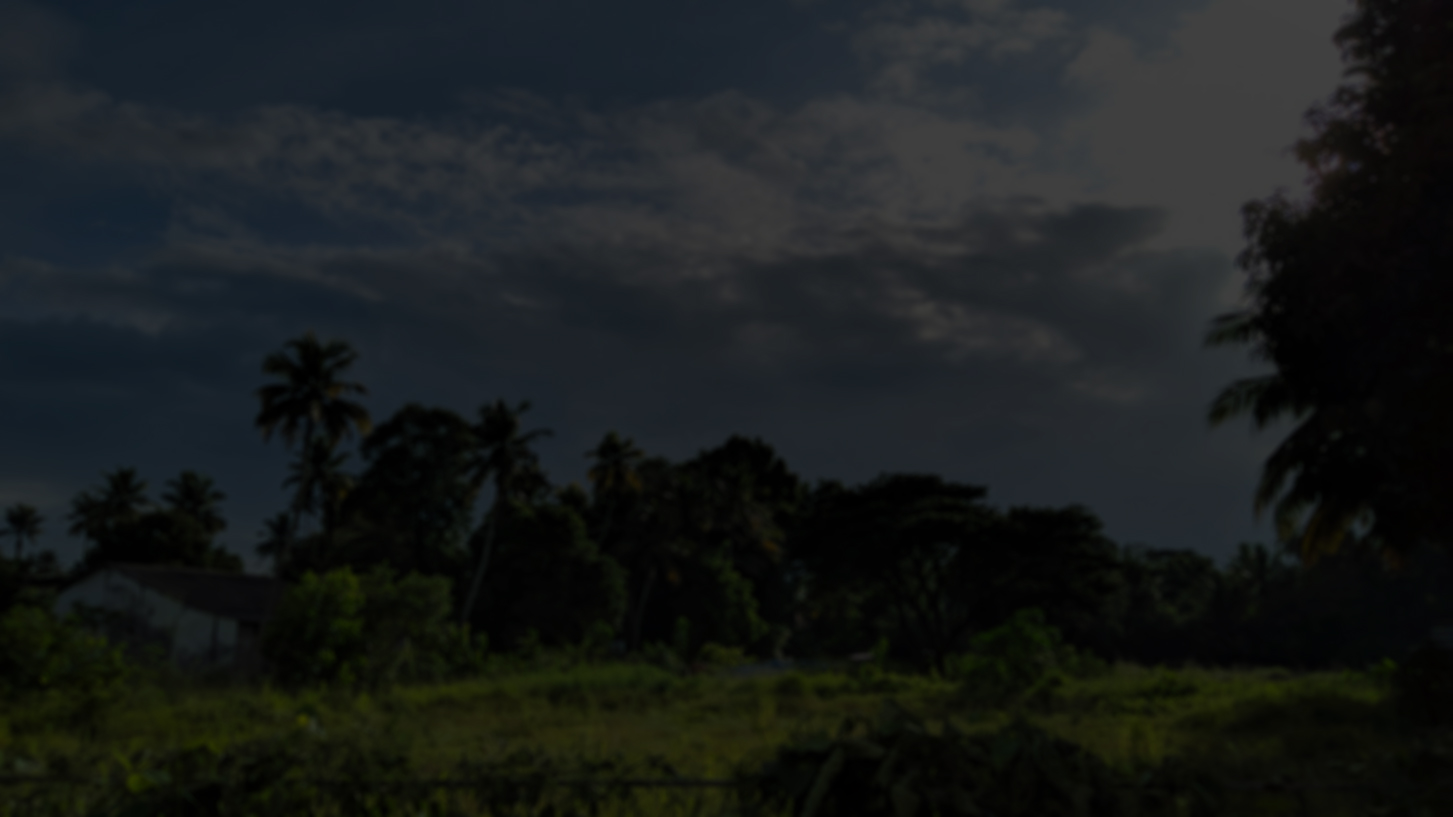
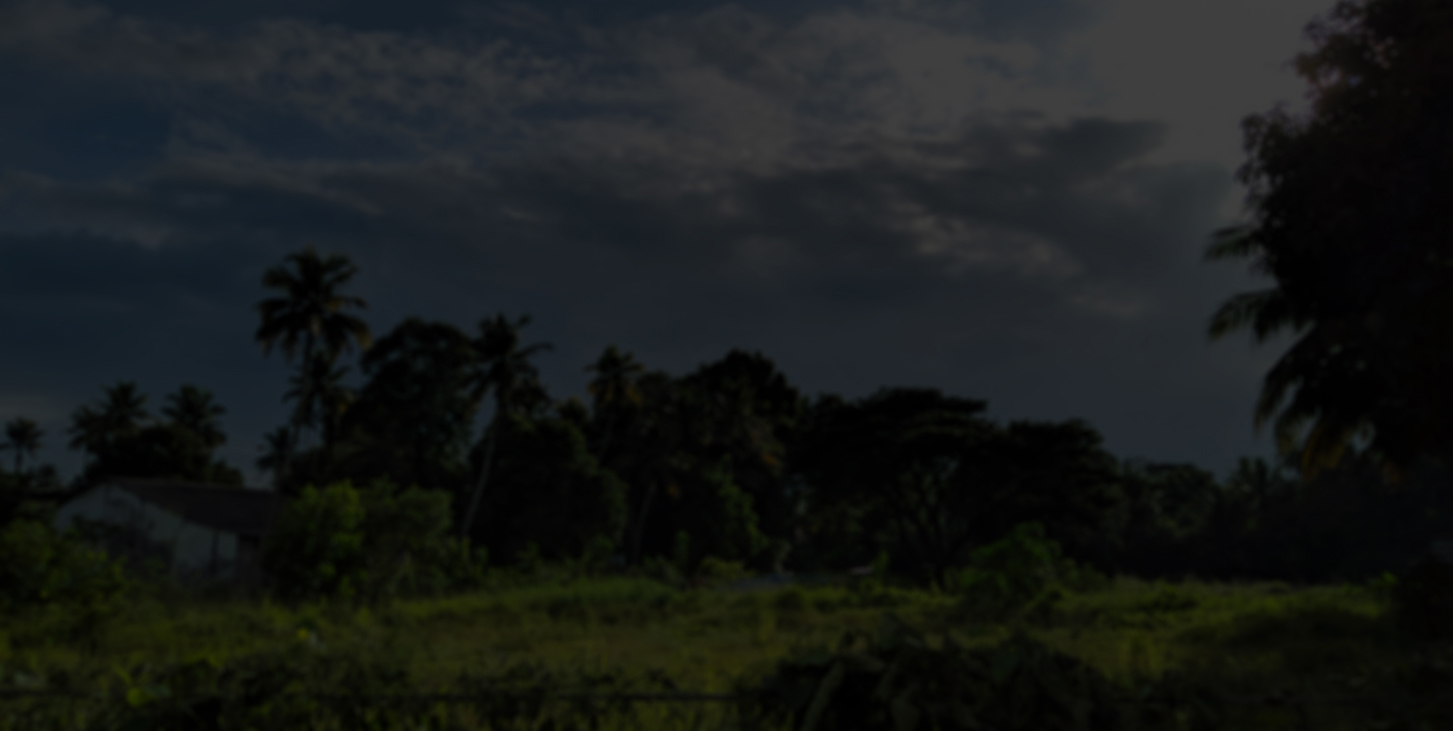
flutter set

diff --git a/index.html b/index.html
@@ -8,46 +8,94 @@
 
 <body>
 
-    <div class="appbar">
-        <h1 class="title">PORTFOLIO</h1>
-        <a class="socialmedia" href="https://github.com/tomthomasvempala"><img src="media/github.png"> </a>
-        <a class="socialmedia" href="https://instagram.com/tomthomasvempala"><img src="media/insta.png"> </a>
-        <a class="socialmedia" href="https://www.linkedin.com/in/tom-vempala-6175ab175/"><img src="media/linkedin.png"> </a>
-    </div>
-    <div class="myBody">
-        <div class="leftside">
-            <div class="propic">
+    <div class="topPart">
+        <div class="appbar">
+            <h1 class="title">PORTFOLIO</h1>
+            <a class="socialmedia" href="https://github.com/tomthomasvempala"><img src="media/icons/github.png"> </a>
+            <a class="socialmedia" href="https://instagram.com/tomthomasvempala"><img src="media/icons/insta.png"> </a>
+            <a class="socialmedia" href="https://www.linkedin.com/in/tom-vempala-6175ab175/"><img src="media/icons/linkedin.png"> </a>
+        </div>
+        <div class="myBody">
+            <div class="leftside">
+                <div class="propic">
+                </div>
+                <h1 id="myname">Tom Thomas Vempala</h1>
+                <h2 id="mybio"> CS Undergraduate | MEC Kochi</h2>
             </div>
-            <h1 id="myname">Tom Thomas Vempala</h1>
-            <h2 id="mybio"> CS Undergraduate | MEC Kochi</h2>
+            <div class="inclinedwall">
+                <ul>
+                    <li>Flutter Developer</li>
+                    <li>Competitive Coder</li>
+                    <li>Web Developer (OTW)</li>
+                    <li>Digital Art enthusaist</li>
+                    <li>Amateur Photographer</li>
+                </ul>
+                <p id="peptalk">
+                    I'm not a pro at any of these
+                </p>
+                <p id="peptalk">
+                    but I love to keep exploring it for fun
+                </p>
+                <p id="peptalk">
+                    And this website is just me trying to explore Wev Dev
+                </p>
+            </div>
         </div>
-
-        <div class="inclinedwall">
-            <ul>
-                <li>Flutter Developer</li>
-                <li>Competitive Coder</li>
-                <li>Web Developer (OTW)</li>
-                <li>Digital Art enthusaist</li>
-                <li>Amateur Photographer</li>
-
-            </ul>
-            <p id="peptalk">
-                I'm not a pro at any of these
-            </p>
-            <p id="peptalk">
-                but I love to keep exploring it for fun
-            </p>
-            <p id="peptalk">
-                And this website is just me trying to explore Wev Dev
-            </p>
-        </div>
-
     </div>
     <a name="flutter">
         <div id="flutter">
-            <h1>
-                My Flutter Projects
-            </h1>
+            <div id="FlutterTile">
+                <img src="media/icons/flutter__2mk_icon.png" id="flutterlogo">
+                <h1 id="flutterheading">
+                    My Flutter Experience
+                </h1>
+            </div>
+            <div id="flutterApps">
+                <div id="oneApp">
+                    <img id="screenshotflutter" src="media/screenshots/indiclaw.png">
+                    <p id="appname">
+                        Indic Law
+                    </p>
+                    <p>
+                        Internship | 5 months
+                    </p>
+
+                    <p>
+                        An app for law aspirants to help them prep for law entrance exams, with video classes, notes and exams
+                    </p>
+                </div>
+                <div id="oneApp">
+                    <img id="screenshotflutter" src="media/screenshots/mecinator.png">
+
+                    <p id="appname">
+                        MECINATOR
+                    </p>
+                    <p>
+                        Group Project
+                    </p>
+                    <p>
+                        Asks you a few questions and reveals figures out you're thinking about from MEC CS 2023
+                    </p>
+
+
+                </div>
+                <div id="oneApp">
+                    <img id="screenshotflutter" src="media/screenshots/groomin.png">
+
+                    <p id="appname">
+                        Groomin
+                    </p>
+                    <p>
+                        Internship | 1 month
+                    </p>
+
+                    <p>
+                        An online service platform to find and book at the nearest best Salon, Spa or Beauty Parlor
+                    </p>
+
+                </div>
+
+            </div>
         </div>
     </a>
 </body>

diff --git a/styles.css b/styles.css
@@ -3,13 +3,25 @@
     src: url("Fonts/Montserrat-ExtraLight.ttf");
 }
 
+@font-face {
+    font-family: lessslimFont;
+    src: url("Fonts/Montserrat-Medium.ttf");
+}
+
 body {
     margin: 0px 0px;
     padding: 0px 0px;
     overflow-x: hidden;
-    background-image: url("media/green_blu.jpg");
     /*  background-repeat: no-repeat;
     background-size: cover; */
+}
+
+.topPart {
+    position: absolute;
+    width: 100%;
+    height: 100%;
+    background-image: url("media/green_blu.jpg");
+    background-size: cover;
 }
 
 h1.title {
@@ -37,7 +49,6 @@ h1.title {
 }
 
 .socialmedia {
-    background-color: rgb(21, 72, 117, 0.548);
     height: 75px;
     width: 75px;
     border: 0ch;
@@ -46,7 +57,7 @@ h1.title {
 }
 
 .socialmedia:hover {
-    background-color: rgb(34, 128, 209, 0.548);
+    background-color: rgba(34, 127, 209, 0.342);
     height: 75px;
     width: 75px;
     animation-name: buttonanimation;
@@ -104,7 +115,7 @@ h1.title {
     position: absolute;
     top: 75px;
     left: 50%;
-    background-color: rgba(0, 0, 0, 0.849);
+    background-color: rgba(0, 0, 0, 0.767);
     color: rgba(255, 255, 255, 0.589);
     width: 100%;
     height: 100%;
@@ -159,9 +170,55 @@ h1.title {
     background-color: white;
 }
 
-#flutter h1 {
+#FlutterTile {
     padding: 20px;
+    height: 150px;
+    width: 100%;
+    align-items: center;
+}
+
+h1#flutterheading {
+    padding-left: 20px;
+    float: left;
     font-family: slimFont;
     color: black;
-    font-size: 200%;
+    font-size: 250%;
+}
+
+#flutterlogo {
+    position: relative;
+    float: left;
+    width: 75px;
+    height: 75px;
+    align-content: center;
+}
+
+#flutterApps {
+    position: absolute;
+    top: 150px;
+    transition: transform 1s;
+}
+
+#oneApp {
+    float: left;
+    align-content: center;
+    margin: auto;
+    font-family: lessslimFont;
+    margin: 0px 50px;
+    text-align: center;
+    width: 20%;
+}
+
+#oneApp>p {
+    padding: 5px;
+    font-size: 80%;
+    margin: 5px;
+}
+
+#oneApp>#appname {
+    font-size: 120%;
+}
+
+#screenshotflutter {
+    height: 420px;
 }
